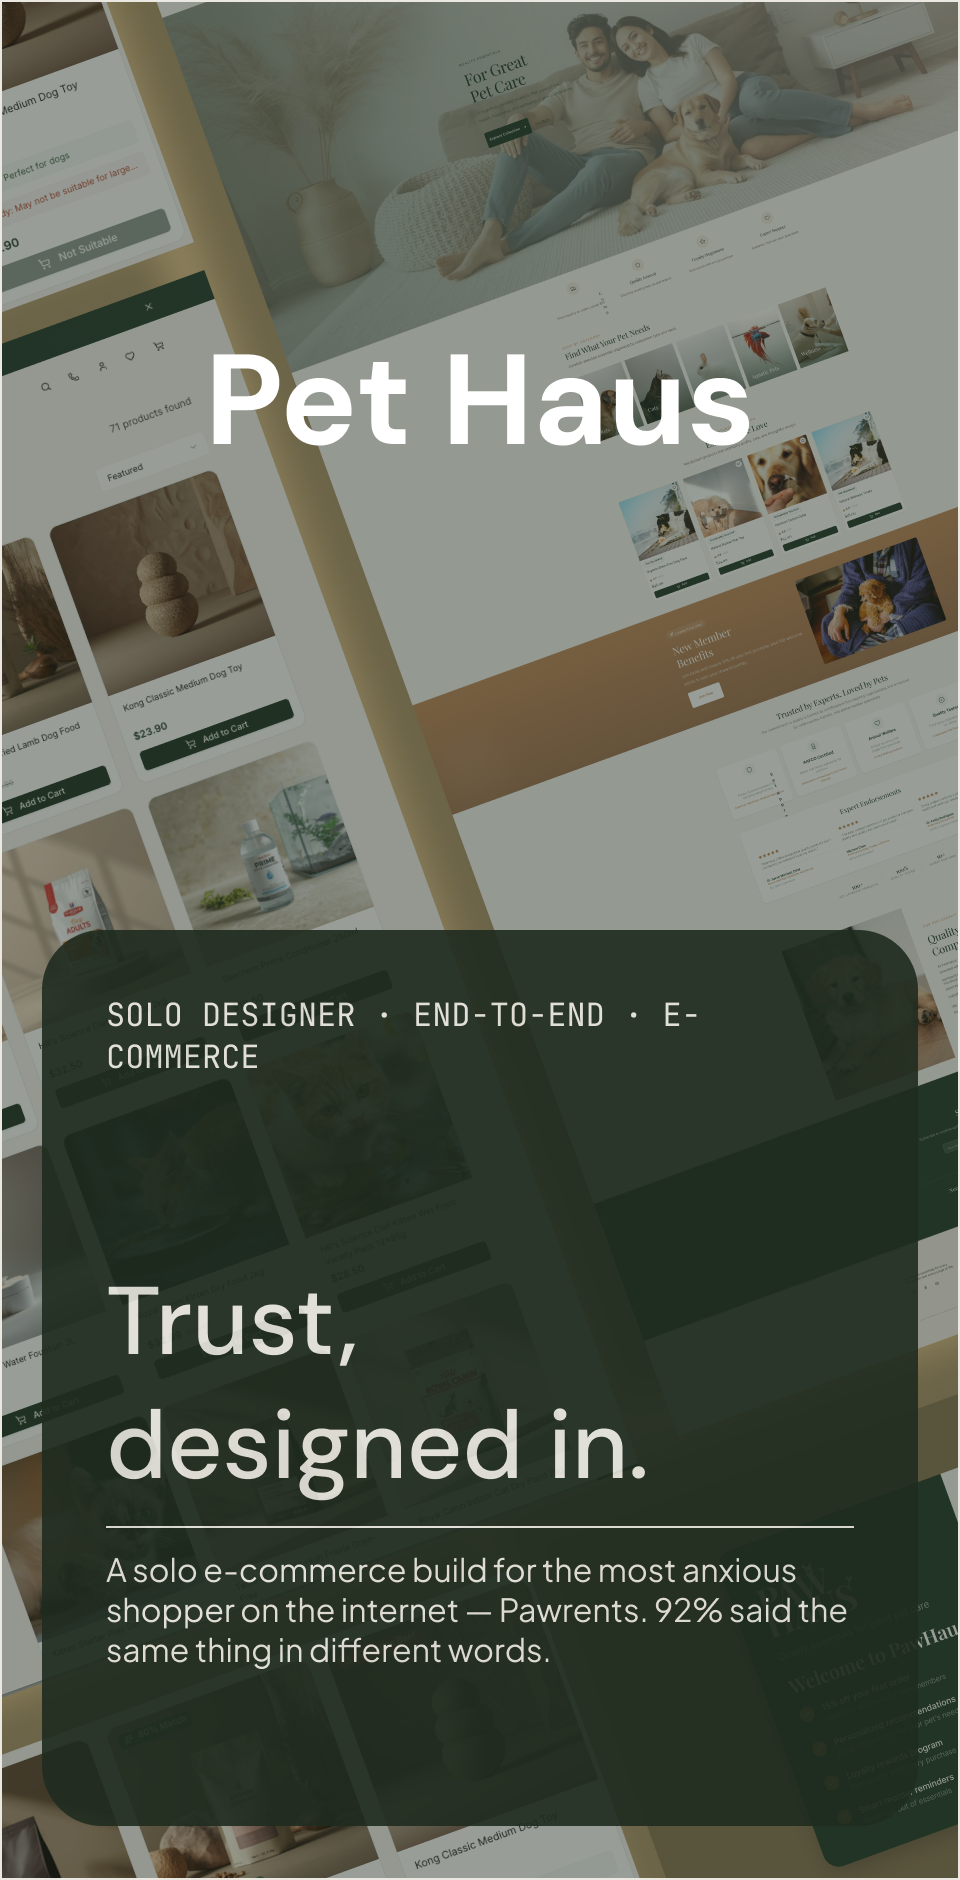
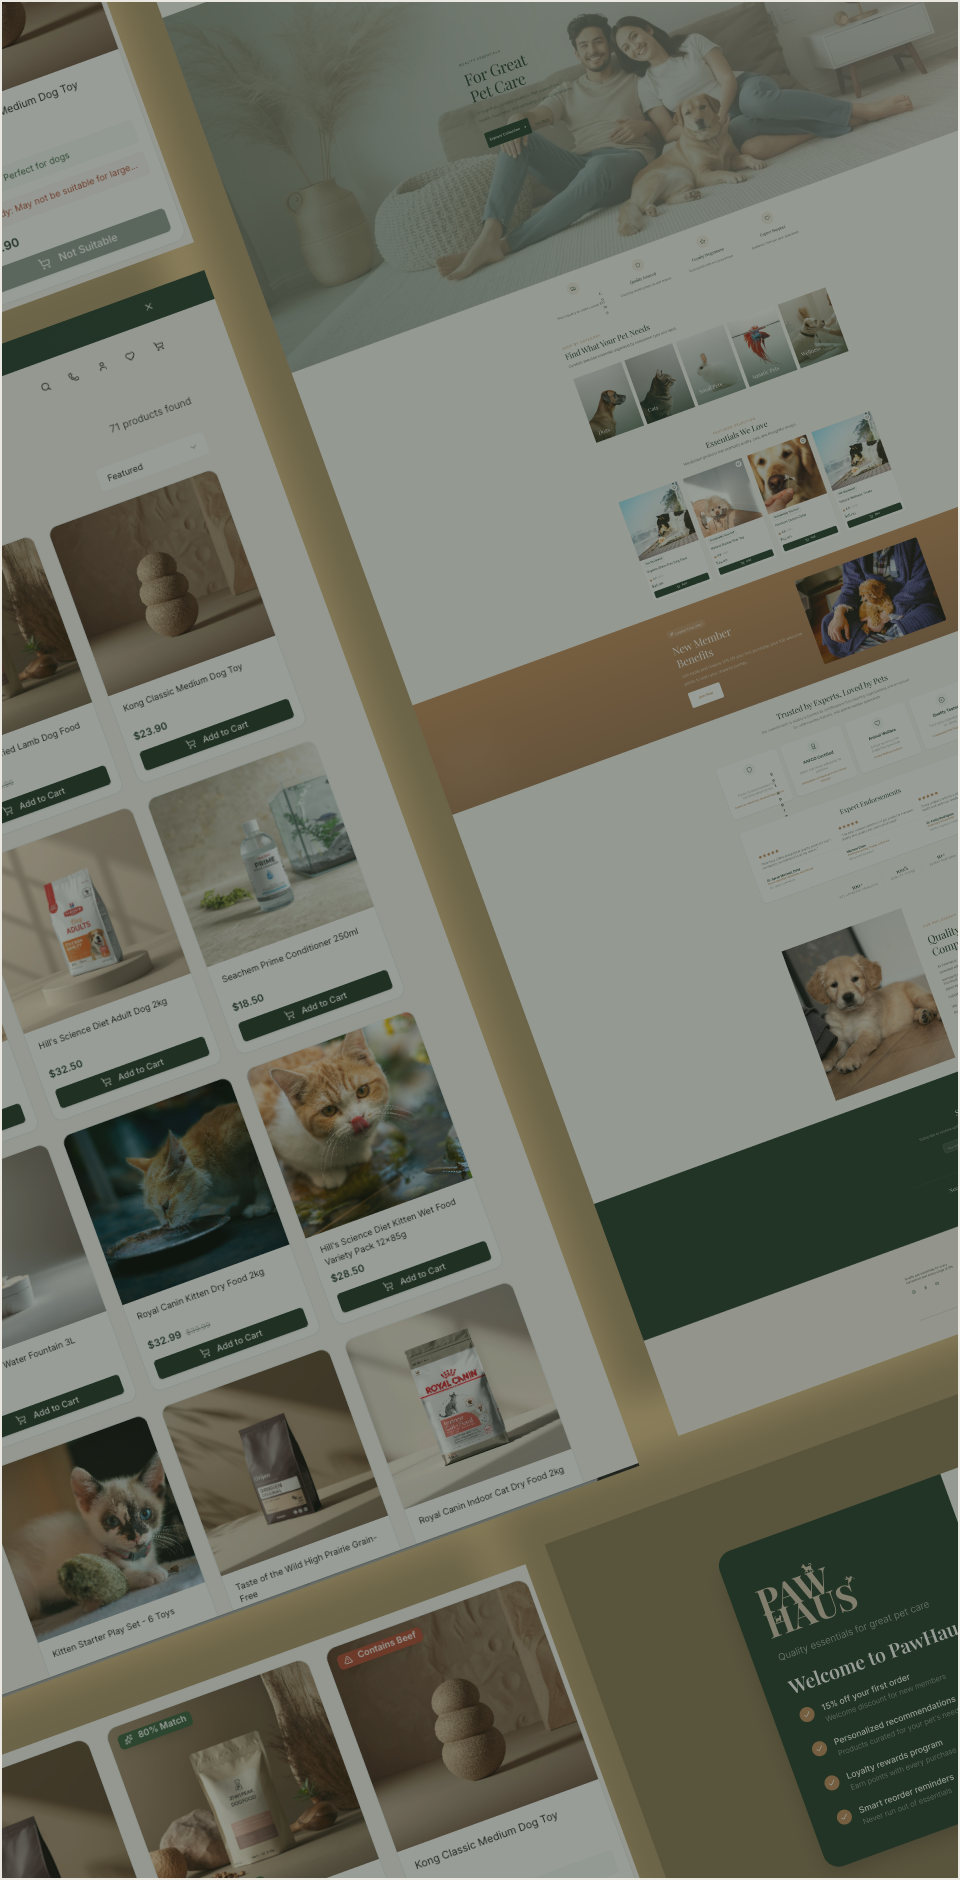
udpate assets

diff --git a/index.html b/index.html
@@ -396,12 +396,11 @@
     }
     .work-col:hover .work-name { opacity: 0; }
 
-    /* hover card image — constrained to top 52% so PNG's baked card never shows */
+    /* image fills full column, fades in on hover */
     .work-card-img {
       position: absolute;
-      top: 0; left: 0; right: 0;
-      width: 100%;
-      height: 52%; /* overlay covers bottom 48%; image stays above it */
+      inset: 0;
+      width: 100%; height: 100%;
       object-fit: cover;
       object-position: top center;
       display: block;
@@ -409,20 +408,19 @@
       pointer-events: none;
       transition: opacity 0.35s ease 0.06s;
     }
-    .work-col:hover .work-card-img {
-      opacity: 1;
-    }
+    .work-col:hover .work-card-img { opacity: 1; }
 
-    /* HTML overlay card — covers bottom 48% of column, hides baked-in PNG card */
+    /* overlay — equal height across all columns, sized to tallest content */
     .work-card-overlay {
       position: absolute;
       left: 0; right: 0; bottom: 0;
-      height: 48%;
+      height: auto;
+      min-height: 248px;
       display: flex;
       flex-direction: column;
       justify-content: flex-end;
-      gap: 5px;
-      padding: clamp(14px, 2.5%, 28px) clamp(16px, 4%, 32px) clamp(20px, 3%, 36px);
+      gap: 8px;
+      padding: clamp(16px, 2.2vw, 28px) clamp(20px, 3vw, 40px) clamp(20px, 2.8vw, 36px);
       background: rgba(8, 6, 10, 0.93);
       border-radius: 14px 14px 0 0;
       opacity: 0;
@@ -908,7 +906,6 @@
       .work-col.arvo-col    { background-color: var(--arvo); }
       .work-col.seletar-col { background-color: var(--seletar); }
       .work-col.pethaus-col { background-color: var(--pethaus); }
-      .work-card-img    { display: none !important; }
       .work-card-overlay { display: none !important; }
       /* Show project name, centered in column */
       .work-name {